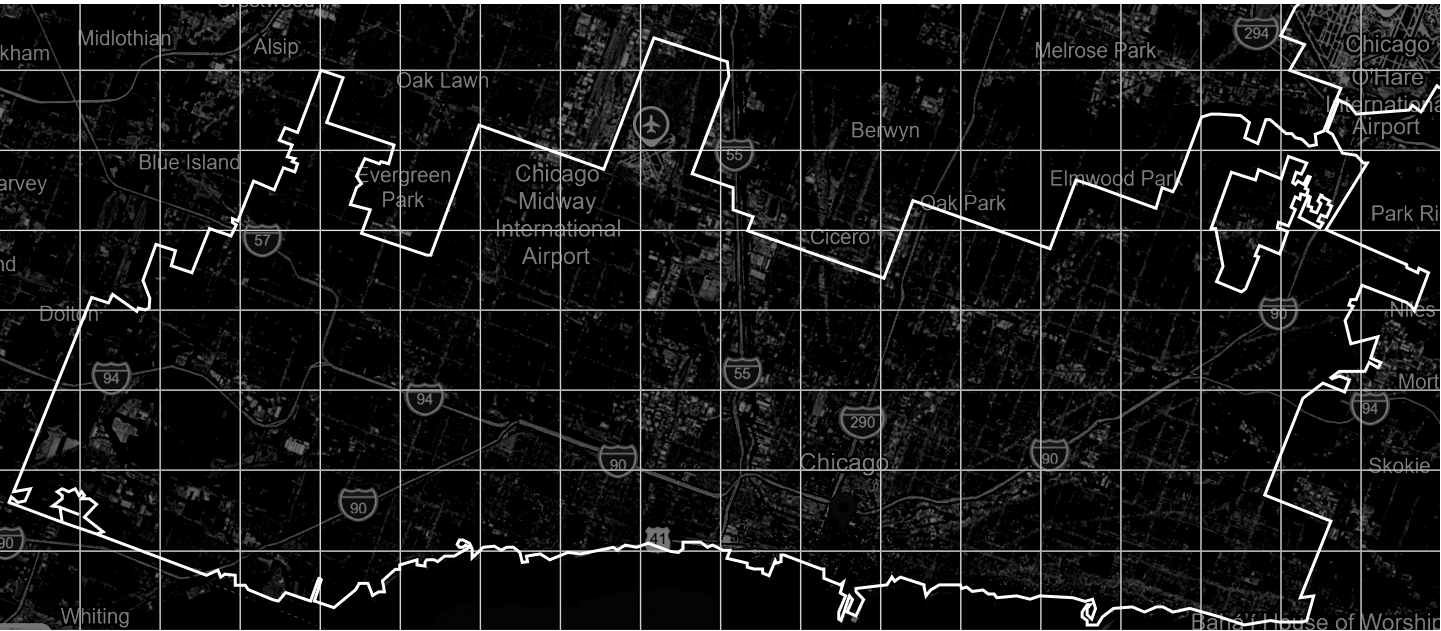
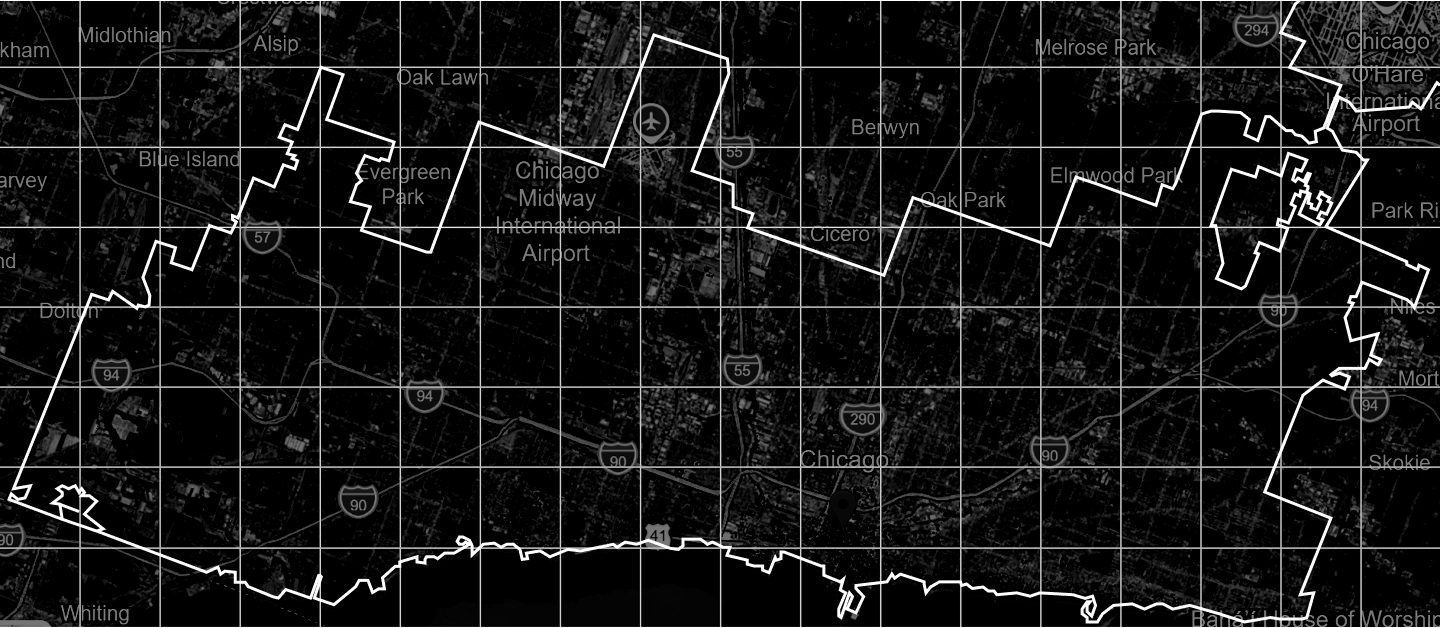
map slices done and form adaptive done

diff --git a/stylesheets/adaptive.css b/stylesheets/adaptive.css
@@ -1,4 +1,8 @@
 @media (max-width: 1024px) {
+    body:has(.form) {
+        background-color: black;
+    }
+
     .mainMenu {
         height: 56px;
         padding: 0 16px;
@@ -65,14 +69,28 @@
 
     .form {
         width: 100%;
+        min-height: 100vh;
         margin: 0;
         align-items: center;
     }
 
     .input-group,
     .checkbox-group,
-    .form-bottom {
+    .form-bottom,
+    .date-field {
         width: 60vw;
+    }
+
+    .date-field {
+        position: static;
+        height: auto;
+        background: transparent;
+        text-align: right;
+    }
+
+    .date-field input {
+        width: auto;
+        height: auto;
     }
 
     .page-header {
@@ -106,6 +124,18 @@
     .section-header {
         text-align: center;
     }
+
+    .map-grid {
+        display: block;
+    }
+
+    .region-popup {
+        width: 180px;
+    }
+
+    .region-popup p {
+        font-size: 13px;
+    }
 }
 
 @media (max-width: 600px) {
@@ -128,5 +158,51 @@
 
     .section-header h2 {
         font-size: 6vw;
+    }
+
+    .running-line {
+        height: auto;
+        font-size: 11px;
+        padding: 3px 0;
+    }
+
+    .form {
+        padding: 20px 16px;
+    }
+
+    .input-group,
+    .checkbox-group,
+    .form-bottom,
+    .date-field {
+        width: 100%;
+    }
+
+    .placeholder input,
+    .placeholder::before,
+    .form button {
+        font-size: 16px;
+    }
+
+    .placeholder input {
+        height: 48px;
+    }
+
+    .form label {
+        font-size: 14px;
+    }
+
+    .form input[type="checkbox"] {
+        width: 18px;
+        height: 18px;
+        min-width: 18px;
+    }
+
+    .form button {
+        padding: 12px 24px;
+    }
+
+    .date-field input {
+        font-size: 14px;
+        padding: 6px 8px;
     }
 }

diff --git a/map.html b/map.html
@@ -46,41 +46,51 @@
     </div>
     <div class="page-header"><img src="./images/headerEvents.svg">
     </div>
-    <div class="map-wrap">
-        <img src="./images/mapNew.png" alt="" class="map-img">
+    <div class="map-grid">
+        <div class="map-slice">
+            <img src="./images/map-slice-1.png" alt="" class="map-img">
 
-        <div class="region" style="left: 38.889%; top: 10.54%;">
-            <div class="region-popup">
-                <img src="./images/photoexample.jpg" alt="">
-                <p>FOREIGN BODY PHOTO — MIDWAY · 12.07</p>
+            <div class="region" style="left: 16.667%; top: 61.66%;">
+                <div class="region-popup">
+                    <img src="./images/photoexample.jpg" alt="">
+                    <p>A. NACHT — WHITING · 09.08</p>
+                </div>
+            </div>
+
+            <div class="region" style="left: 50%; top: 36.10%;">
+                <div class="region-popup">
+                    <img src="./images/photoexample.jpg" alt="">
+                    <p>EVA D-SECT — DOLTON · 19.07</p>
+                </div>
             </div>
         </div>
 
-        <div class="region" style="left: 16.667%; top: 36.10%;">
-            <div class="region-popup">
-                <img src="./images/photoexample.jpg" alt="">
-                <p>EVA D-SECT — DOLTON · 19.07</p>
+        <div class="map-slice">
+            <img src="./images/map-slice-2.png" alt="" class="map-img">
+
+            <div class="region" style="left: 16.667%; top: 10.54%;">
+                <div class="region-popup">
+                    <img src="./images/photoexample.jpg" alt="">
+                    <p>FOREIGN BODY PHOTO — MIDWAY · 12.07</p>
+                </div>
+            </div>
+
+            <div class="region" style="left: 33.333%; top: 48.88%;">
+                <div class="region-popup">
+                    <img src="./images/photoexample.jpg" alt="">
+                    <p>MONOCHROME — DOWNTOWN · 26.07</p>
+                </div>
             </div>
         </div>
 
-        <div class="region" style="left: 44.444%; top: 48.88%;">
-            <div class="region-popup">
-                <img src="./images/photoexample.jpg" alt="">
-                <p>MONOCHROME — DOWNTOWN · 26.07</p>
-            </div>
-        </div>
+        <div class="map-slice">
+            <img src="./images/map-slice-3.png" alt="" class="map-img">
 
-        <div class="region" style="left: 77.778%; top: 48.88%;">
-            <div class="region-popup">
-                <img src="./images/photoexample.jpg" alt="">
-                <p>IRON OXIDE — SKOKIE · 02.08</p>
-            </div>
-        </div>
-
-        <div class="region" style="left: 5.556%; top: 61.66%;">
-            <div class="region-popup">
-                <img src="./images/photoexample.jpg" alt="">
-                <p>A. NACHT — WHITING · 09.08</p>
+            <div class="region" style="left: 33.333%; top: 48.88%;">
+                <div class="region-popup">
+                    <img src="./images/photoexample.jpg" alt="">
+                    <p>IRON OXIDE — SKOKIE · 02.08</p>
+                </div>
             </div>
         </div>
     </div>

diff --git a/javascripts/scripts.js b/javascripts/scripts.js
@@ -5,6 +5,7 @@ function init() {
     formatPhoneInput();
     burgerMenu();
     editorialTouch();
+    regionTouch();
 }
 document.addEventListener('DOMContentLoaded', init);
 
@@ -20,22 +21,22 @@ function formatPhoneInput() {
     })
 
     phoneInput.addEventListener('input', function () {
-        let numbers = this.value.replace(/\D/g, '')
-        numbers = numbers.substring(0, 10)
+        let numbers = this.value.replace(/\D/g, '').substring(0, 11)
+        let cc = numbers.slice(0, 1)
+        numbers = numbers.slice(1)
 
-        let formatted = ''
+        let formatted = cc ? '+' + cc + ' ' : ''
 
         if (numbers.length > 0) {
-            //  formatted = formatted + '('+ numbers.substring(0, 3) 
             formatted += '(' + numbers.substring(0, 3)
         }
         if (numbers.length >= 4) {
-            formatted += ') ' + numbers.substring(3, 6)
+            formatted += ')' + numbers.substring(3, 6)
         }
         if (numbers.length >= 7) {
             formatted += '-' + numbers.substring(6, 8)
         }
-         if (numbers.length >= 9) {
+        if (numbers.length >= 9) {
             formatted += '-' + numbers.substring(8, 10)
         }
 
@@ -52,7 +53,7 @@ function setTodayDate() {
         let mm = String(today.getMonth() + 1).padStart(2, '0')
         let yyyy = today.getFullYear()
 
-        dateInput.value = `${dd}/${mm}/${yyyy}`
+        dateInput.value = `${yyyy}/${mm}/${dd}`
         dateInput.readOnly = true
         dateInput.tabIndex = -1
     }
@@ -87,5 +88,16 @@ function editorialTouch() {
     let images = document.querySelectorAll('.editorial-image')
     images.forEach((image) => {
         image.addEventListener('click', () => image.classList.toggle('show'))
+    })
+}
+
+function regionTouch() {
+    let regions = document.querySelectorAll('.region')
+    regions.forEach((region) => {
+        region.addEventListener('click', () => {
+            let open = region.classList.contains('show')
+            regions.forEach((r) => r.classList.remove('show'))
+            if (!open) region.classList.add('show')
+        })
     })
 }

diff --git a/stylesheets/layout.css b/stylesheets/layout.css
@@ -773,9 +773,13 @@
     margin-top: 1.5vw;
 }
 
-.map-wrap {
+.map-grid {
+    display: flex;
+}
+
+.map-slice {
     position: relative;
-    width: 100%;
+    flex: 1;
 }
 
 .map-img {
@@ -785,7 +789,7 @@
 
 .region {
     position: absolute;
-    width: 5.56%;
+    width: 16.68%;
     height: 13%;
     cursor: pointer;
     border: 0.3vw solid #FF0000;
@@ -805,7 +809,13 @@
     z-index: 10;
 }
 
-.region:hover .region-popup {
+.region:hover,
+.region.show {
+    z-index: 20;
+}
+
+.region:hover .region-popup,
+.region.show .region-popup {
     display: block;
 }
 
@@ -826,7 +836,6 @@
     position: relative;
     width: 60vw;
     background-color: black;
-    border: 0.2vw solid white;
     margin: 2vw auto;
     padding: 2vw;
     display: flex;
@@ -842,14 +851,13 @@
     background-color: white;
     width: 14vw;
     height: 3.5vw;
-    margin-left: 41.5vw;
 }
 
 .date-field input {
     background-color: white;
     color: black;
     border: none;
-    font-family: 'Courier New', monospace;
+    font-family: inherit;
     font-weight: 700;
     text-align: right;
     width: 14vw;

diff --git a/join.html b/join.html
@@ -48,7 +48,7 @@
     </div>
 
     <form action="" class="form">
-        <span class="placeholder date-field">
+        <span class="date-field">
             <input type="text" name="date" value="1/1/2000" readonly />
         </span>
 